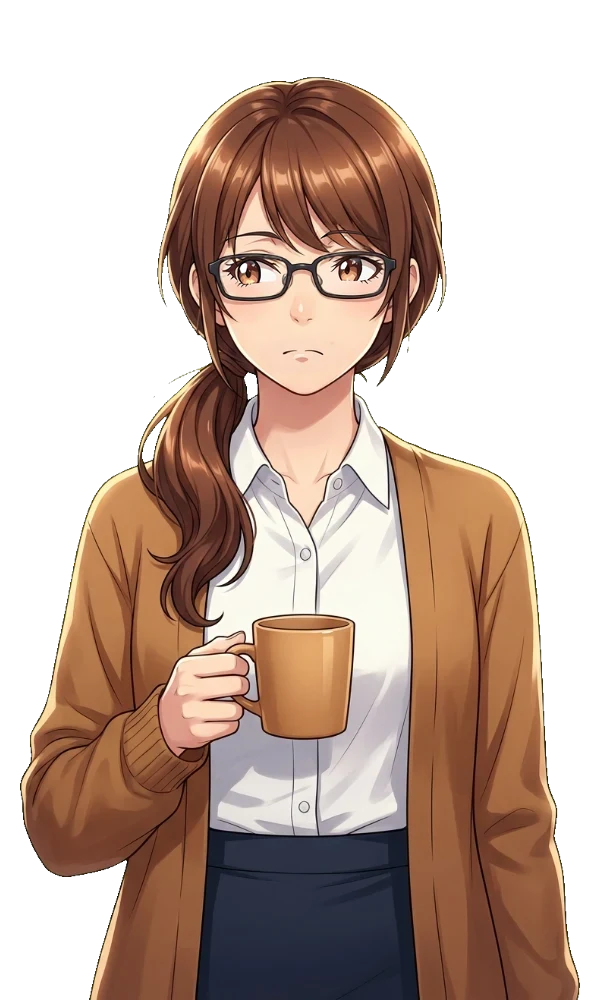
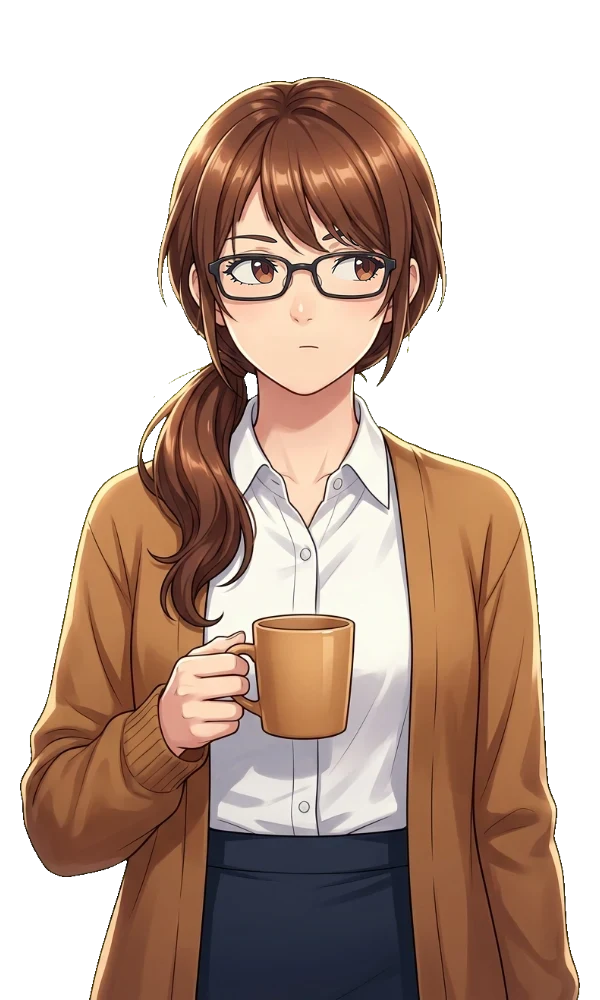
修正索老師 think 思考表情與 sad/think 眼鏡框一致性並更新紀錄

Changed region(s): [[0.36, 0.217, 0.48, 0.31], [0.51, 0.217, 0.66, 0.279], [0.48, 0.341, 0.54, 0.372]]

diff --git a/docs/art-requests.md b/docs/art-requests.md
@@ -1057,18 +1057,21 @@ smiling, smirk, upturned mouth corners, happy expression, cheerful face, looking
 - [x] **`think` 視線與嘴型到位**：視線明確偏向一側、眉頭微收不顯兇、嘴型平直不微笑，與 `normal` 差異清楚。
 - [x] **角色特徵與畫風一致**：維持棕色低馬尾、黑框長方眼鏡、白襯衫、棕黃開襟毛衣、深藍裙、陶製咖啡馬克杯、成年女性氣質，且柔和賽璐璐上色與 `rin`／`mirai` 等立繪一致。
 - [x] **對位零跳動**：與 `sensei/normal.webp` 疊圖時頭、肩、眼鏡框、髮際線逐像素重合；`npm run art:check` 顯示 `71/71 assets done, 0 broken` 且 `sensei/sad`、`sensei/think` 外框與 `normal` 完全一致 `(20,77,579,999)`（0px 偏移）。
-- [x] **去背乾淨**：灰底與深色底檢視皆無白邊、無殘留綠點或綠色溢色，檔案為 `600×1000` 透明 WebP（`sad.webp` 62.7 KB、`think.webp` 63.0 KB）。
+- [x] **去背乾淨**：灰底與深色底檢視皆無白邊、無殘留綠點或綠色溢色，檔案為 `600×1000` 透明 WebP（`sad.webp` 62.9 KB、`think.webp` 63.0 KB）。
 - [x] **回歸檢查通過**：`npm run art:check && npm run typecheck && npm test` 全數通過。
 
 #### 完成紀錄（2026-11-28）
 
-- **完成日期**：2026-11-28
+- **完成日期**：2026-11-28（初版重繪後經總監驗收退回修正，同日完成二版定稿）
 - **執行環境與模型**：Google Colab L4 GPU（24 GB VRAM），`diffusers 0.42.1` `AutoPipelineForInpainting`（`StableDiffusionXLInpaintPipeline`）載入 `cagliostrolab/animagine-xl-4.0`（fp16）＋ `EulerAncestralDiscreteScheduler`。
-- **生成與合成流程**：
-  1. 以現行 `public/art/sensei/normal.webp` 為唯一母圖，保留原始 alpha 並鋪上中性灰 `(128,128,128)` 底色，裁切臉部方形區塊 `(120, 60, 480, 420)`（360×360）並以 Lanczos 放大至 `1024×1024`。
-  2. 製作羽化局部遮罩 `mask_targeted_v2`（僅覆蓋雙眉、黑框眼鏡內側眼部與嘴部，高斯羽化半徑 3.5px，完全避開鼻底、黑框眼鏡框線、瀏海外輪廓與下顎線），確保眼鏡與臉型逐像素鎖定。
-  3. 共分三批產出 44 張候選圖（`sad` 20 張、`think` 24 張），下載後縮回 360×360 並以羽化遮罩貼回 `normal` 原圖、套回原始 alpha，並排放大審查挑選最佳結果。
+- **二版修正原因（退回驗收意見）**：
+  1. 初版 `think`（seed 503）嘴型呈現下垂弧線「︵」與 `sad` 過於接近、顯得悶悶不樂，且視線偏移不夠明確。
+  2. 初版 `sad`（seed 304）表情本身合格，但合成遮罩重疊到眼鏡框，導致黑框比 `normal` 變淺變細、鼻樑／鼻墊出現多餘反光，且嘴下有一個不自然的深色小色塊。
+- **二版生成與合成流程**：
+  1. 以現行 `public/art/sensei/normal.webp` 為唯一母圖，裁切臉部方形區塊 `(120, 60, 480, 420)`（360×360）並以 Lanczos 放大至 `1024×1024`。
+  2. 改採**精準排除眼鏡框、鼻樑、鼻墊與左側垂落細瀏海的雙重保護遮罩**（`frame_lock` 鎖定眼鏡外框至內框間全部像素與鼻墊，僅開放雙眉區、雙鏡片內側與嘴部），確保 `sad` 與 `think` 的眼鏡框粗細、顏色、反光與 `normal` 逐像素一致。
+  3. `think` 於 Colab L4 分兩批共產出 22 張不同 seed 候選圖（Batch 1 共 12 張、Batch 2 共 10 張），全數套用排除眼鏡框遮罩貼回 `normal` 並排放大比較後定稿；`sad` 保留初版 seed 304 表情，以相同 `frame_lock` 遮罩還原 `normal` 眼鏡框與鼻樑，並平滑修除嘴下不自然深色圓點為柔和下唇陰影。
   4. 透過 `node scripts/process-art.mjs` 轉為 600×1000 透明 WebP（品質 0.88）覆蓋 `public/art/sensei/sad.webp` 與 `public/art/sensei/think.webp`。
 - **最終採用參數與 Seed**：
-  - `public/art/sensei/sad.webp`：`seed = 304`、`strength = 0.76`、`guidance_scale = 6.5`、`num_inference_steps = 30`、`mask = targeted_v2`（Batch 2）；正向提示詞強調 `thin brown eyebrows, sad, apologetic, worried eyebrows, furrowed brows, downcast eyes, looking down, frown, downturned mouth, closed sad mouth`，負向提示詞排除 `smile, smiling, smirk, happy, upturned mouth, open mouth, teeth, thick eyebrows, crying, streaming tears, angry, extra glasses, deformed eyes`。
-  - `public/art/sensei/think.webp`：`seed = 503`、`strength = 0.78`、`guidance_scale = 6.5`、`num_inference_steps = 30`、`mask = targeted_v2`（Batch 3）；正向提示詞強調 `thin brown eyebrows, thinking, contemplative, looking to the side, glancing right, slightly furrowed eyebrows, calm focused eyes, straight closed mouth, flat neutral mouth`，負向提示詞排除 `smile, smiling, smirk, happy, upturned mouth, looking at viewer, open mouth, teeth, pursed lips, puckered lips, tiny mouth, thick eyebrows, sad, crying, angry, extra glasses, deformed eyes`。
+  - `public/art/sensei/sad.webp`：保留初版 `seed = 304`、`strength = 0.76`、`guidance_scale = 6.5`、`num_inference_steps = 30` 之表情結果（八字眉、垂眼瞼、嘴角下垂），二版改以 `frame_lock` 排除眼鏡框遮罩重新合成還原 `normal` 原版粗黑鏡框與鼻樑，並將嘴下（`x=295..311, y=354..364`）深色色塊平滑化為自然下唇陰影。
+  - `public/art/sensei/think.webp`：二版重繪定稿（Batch 1 `C4`），`seed = 3044`、`strength = 0.84`、`guidance_scale = 7.0`、`num_inference_steps = 32`、排除眼鏡框遮罩 `mask_think_1024` + `comp_mask_clean`；正向提示詞強調 `thinking, pondering, looking to the side, glancing up and sideways, relaxed curious eyebrows, one eyebrow slightly higher, short straight closed mouth, neutral expression`，負向提示詞明確排除 `frown, downturned mouth, sad, depressed, gloomy, worried, worried eyebrows, troubled eyebrows, smile, smiling, smirk, happy, upturned mouth, open mouth, teeth, looking at viewer, cross-eyed, angry, extra glasses, deformed eyes`。
